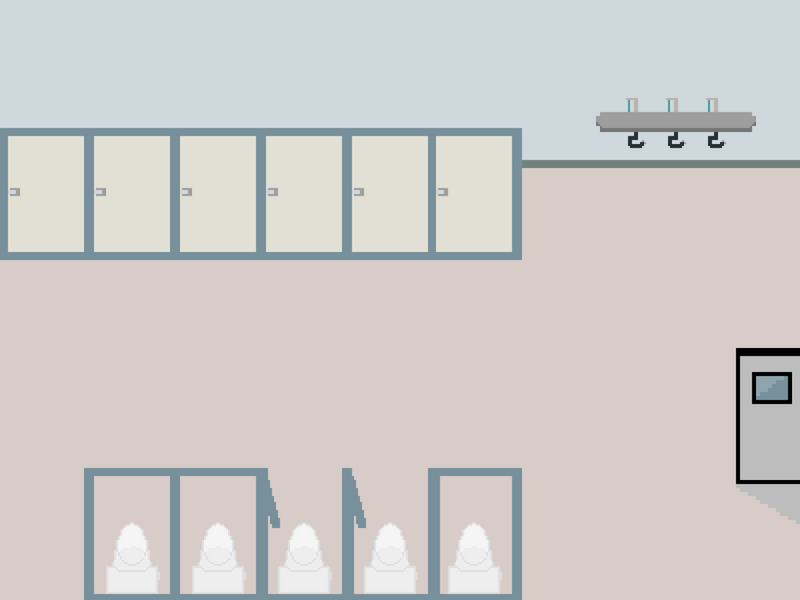
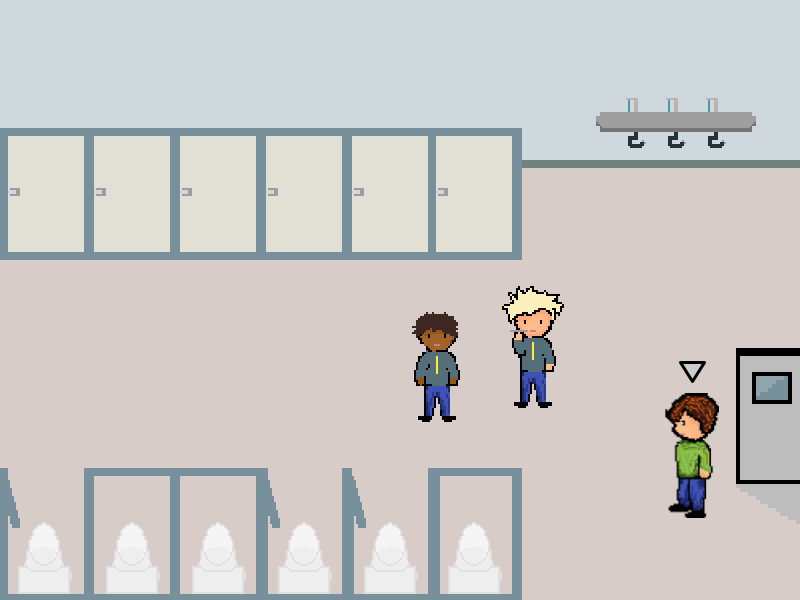
scenario 2

diff --git a/src/ChangeScene.java b/src/ChangeScene.java
@@ -109,17 +109,17 @@ public class ChangeScene {
         escapeRooms = new ScenarioRoom[10];
         escapeRooms[1] = new EscapeClassroom(stage, backpack, "Room101", 1);
         escapeRooms[1].buildRoom();
-        escapeRooms[2] = new EscapeClassroom(stage, backpack, "Room102", 2);
+        escapeRooms[2] = new EscapeClassroom(stage, backpack, "Room102", 1);
         escapeRooms[2].buildRoom();
-        escapeRooms[3] = new EscapeClassroom(stage, backpack, "Room103", 3);
+        escapeRooms[3] = new EscapeClassroom(stage, backpack, "Room103", 1);
         escapeRooms[3].buildRoom();
-        escapeRooms[4] = new EscapeClassroom(stage, backpack, "Room104", 4);
+        escapeRooms[4] = new EscapeClassroom(stage, backpack, "Room104", 1);
         escapeRooms[4].buildRoom();
-        escapeRooms[5] = new EscapeWashroom(stage, backpack, "Washroom1", 5);
+        escapeRooms[5] = new EscapeWashroom(stage, backpack, "Washroom1", 2);
         escapeRooms[5].buildRoom();
         escapeRooms[6] = new EscapeWashroom(stage, backpack, "Washroom2", -1);
         escapeRooms[6].buildRoom();
-        escapeRooms[7] = new EscapeLibrary(stage, backpack, "Library", 7);
+        escapeRooms[7] = new EscapeLibrary(stage, backpack, "Library", 3);
         escapeRooms[7].buildRoom();
     }
 

diff --git a/src/ScenarioRoom.java b/src/ScenarioRoom.java
@@ -346,7 +346,10 @@ public abstract class ScenarioRoom extends CollisionRoom {
      * plays the scenario
      */
     private void playScenarios() {
-        stage.setScene(scenes.get(0));
+        ImageView next = Tools.displayIntermissionText(stage, "SCENARIO TIME!");
+        next.onMouseClickedProperty().set(e -> {
+            stage.setScene(scenes.get(0));
+        });
     }
 
     /**
@@ -390,7 +393,12 @@ public abstract class ScenarioRoom extends CollisionRoom {
         textBox.toggleOn();
         ImageView nextButton = Tools.createButton(root, "Assets/Buttons/", "next", 550, 520, 180);
         nextButton.setOnMouseClicked(e -> {
-            if (!option.equals("FAIL")) startRoom();
+            if (!option.equals("FAIL")) {
+                startRoom();
+                warning.setMessage("Back to the game...");
+                warning.setTextboxColour("Blue");
+                warning.setWarning(2);
+            }
             else ChangeScene.changeToMainMenu(stage);
         });
     }

diff --git a/src/MainMenu.java b/src/MainMenu.java
@@ -88,8 +88,8 @@ public class MainMenu {
             System.out.println("Play");
             ChangeScene.reinitialize(stage);
             // ChangeScene.changeToDeficiencyRoom();
-             ChangeScene.changeToPanicRoom(stage);
-            //ChangeScene.changeToEscapeRoom(stage);
+            // ChangeScene.changeToPanicRoom(stage);
+            ChangeScene.changeToEscapeRoom(stage);
         });
 
         insBtn.setOnMouseClicked(e -> {
